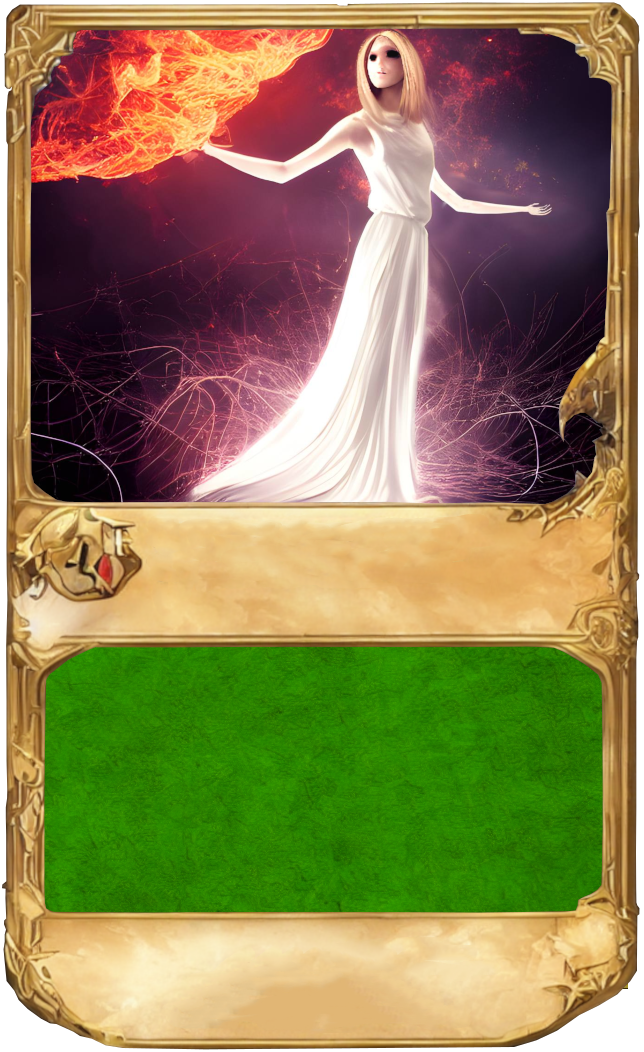
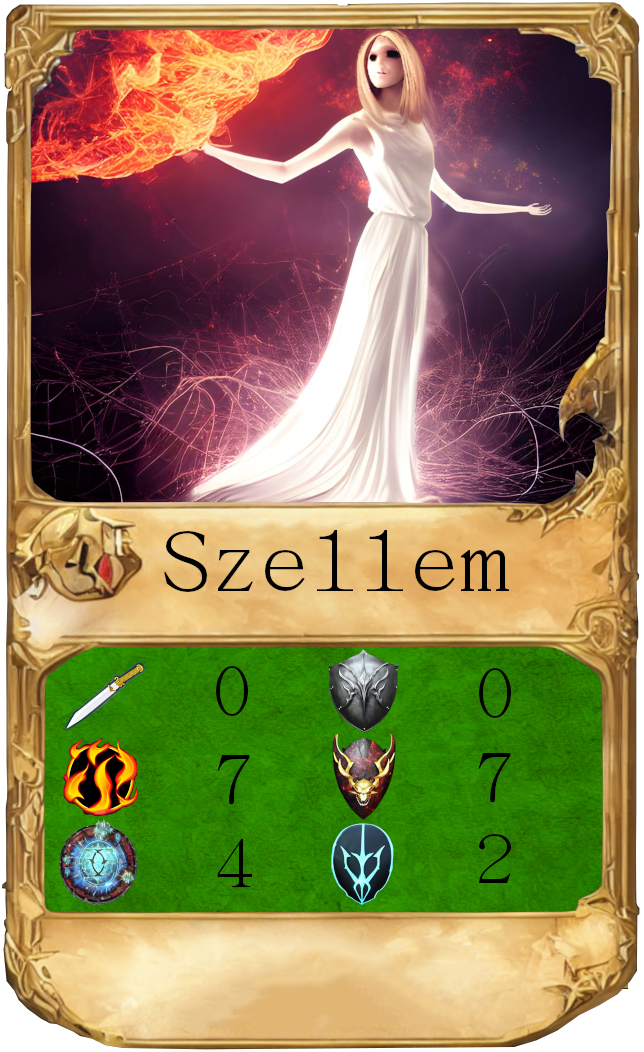
The final version of the cards are done. The rarest card you can get now by drawing is blue

diff --git a/main.c b/main.c
@@ -317,7 +317,8 @@ void initializeCards(Card *cardsOfPlayer, int numberOfCards, Card *playedCardsOf
 
 void randomSelectDeckCards(Card *cardsOfPlayer, int numberOfCards){
     for(int i = 0; i < numberOfCards; i++){
-        int randomIndex = rand() % 16;
+        // The rarest card it can draw is blue
+        int randomIndex = rand() % 12;
         cardsOfPlayer[i] = cardCollection[randomIndex];
     }
 }
